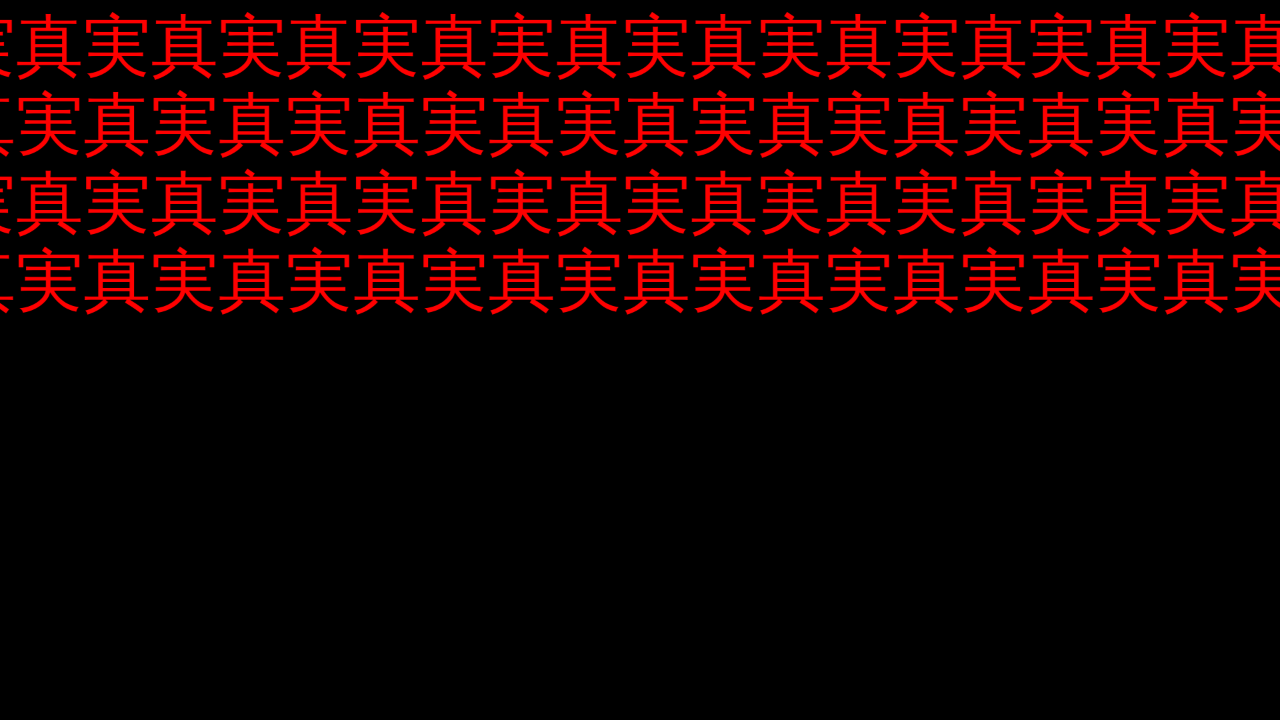
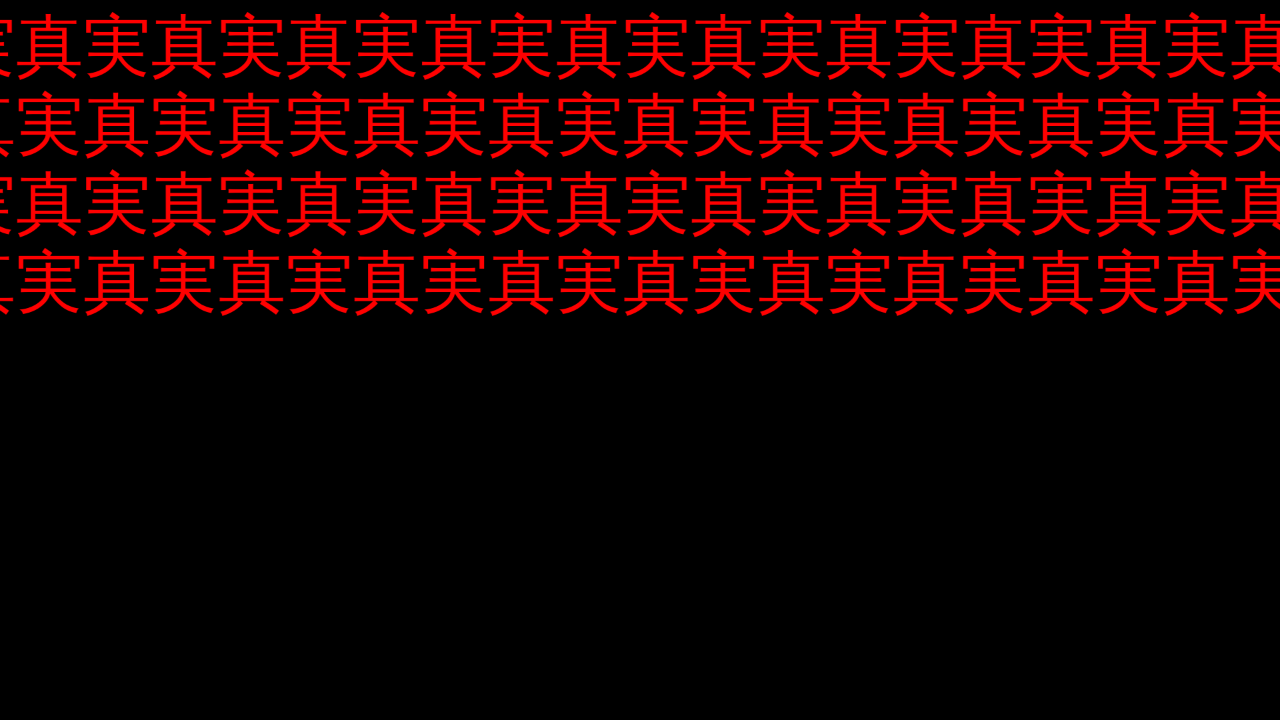
Use v0.2.76 visual baselines

Changed region(s): [[0.0, 0.2444, 1.0, 0.4583], [0.0, 0.1222, 1.0, 0.2139]]

diff --git a/src/__tests__/test.spec.ts b/src/__tests__/test.spec.ts
@@ -3,6 +3,11 @@ import { expect, test } from "@playwright/test";
 import pixelmatch from "pixelmatch";
 import { PNG } from "pngjs";
 
+const screenshotOptions = {
+  maxDiffPixels: 64,
+  threshold: 0.075,
+};
+
 test("0(レッツゴー陰陽師)", async ({ page }) => {
   await compare(page, 0, 20);
 });
@@ -43,10 +48,13 @@ test("-1(regression fixtures)", async ({ page }) => {
 
 const compare = async (page: Page, video: number, time: number) => {
   await loadSample(page, video, time);
-  await expect(page).toHaveScreenshot(`${video}-${time}.png`);
+  await expect(page).toHaveScreenshot(
+    `${video}-${time}.png`,
+    screenshotOptions,
+  );
   expect(await page.screenshot({ fullPage: true })).toMatchSnapshot(
     `${video}-${time}.png`,
-    { threshold: 0.075 },
+    screenshotOptions,
   );
 };
 